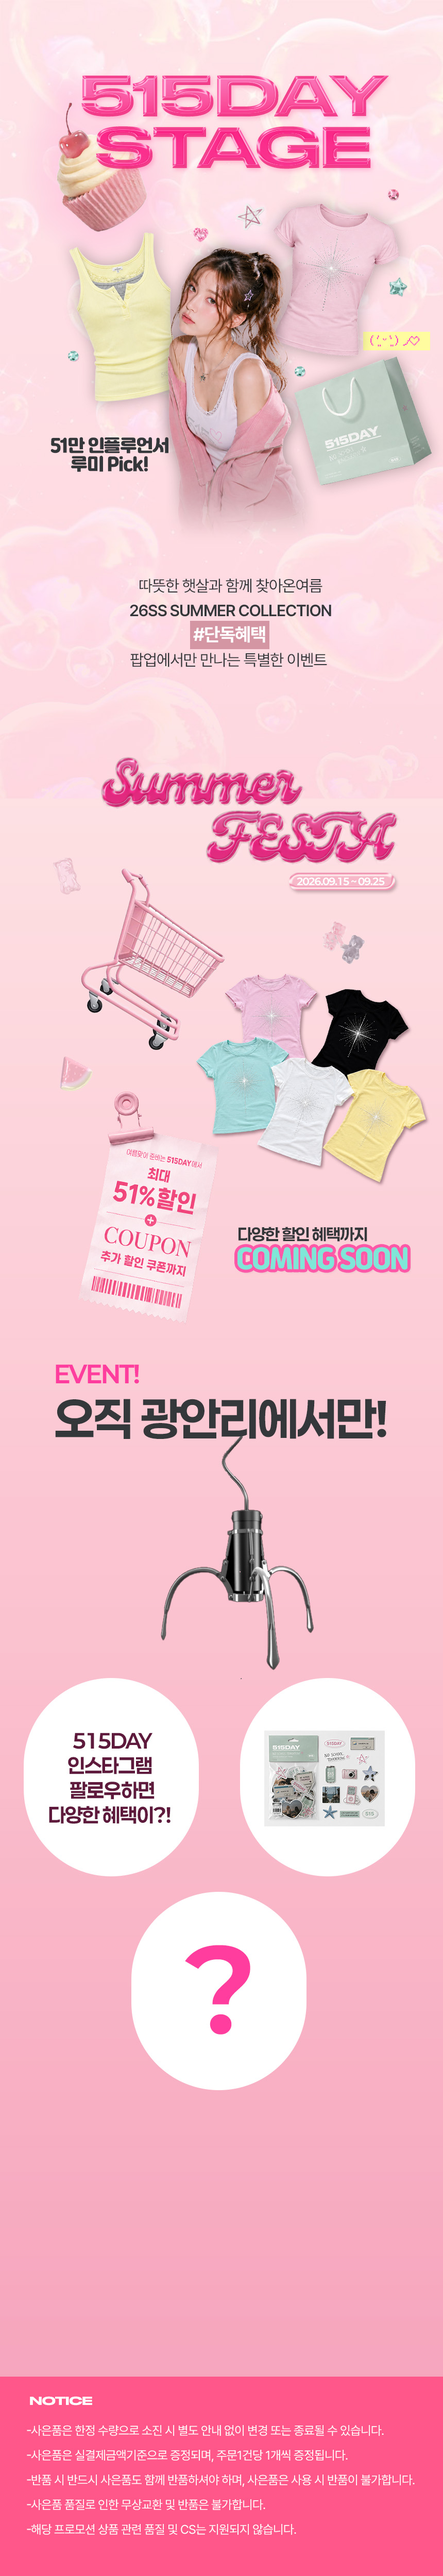
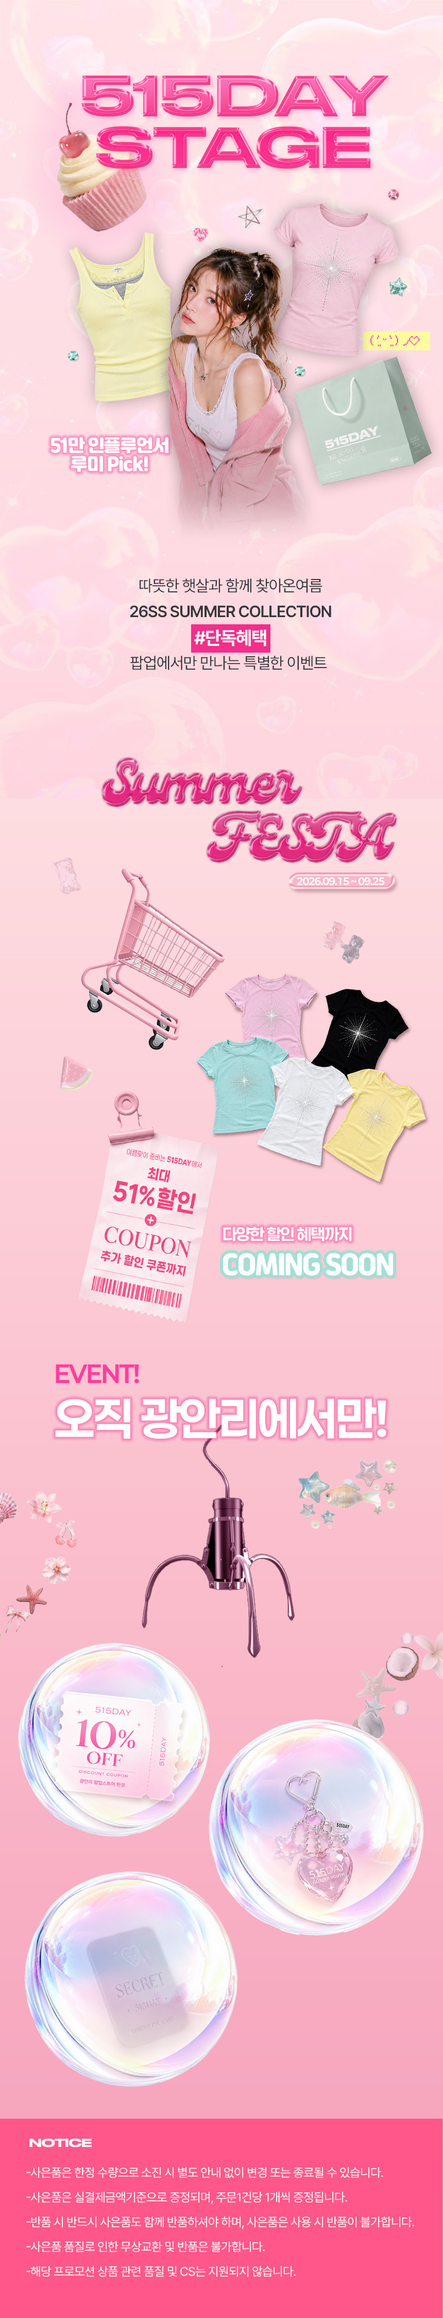
0707

diff --git a/index.html b/index.html
@@ -62,15 +62,15 @@
 
             <!-- 우측 아이콘 -->
             <div class="user-icons">
-                <a href="#">
+                <a href="#fd">
                     <img src="./images/mypage.png" alt="">
                 </a>
 
-                <a href="#">
+                <a href="#fd">
                     <img src="./images/cart.png" alt="">
                 </a>
 
-                <a href="#">
+                <a href="#fd">
                     <img src="./images/coupon.png" alt="">
                 </a>
             </div>
